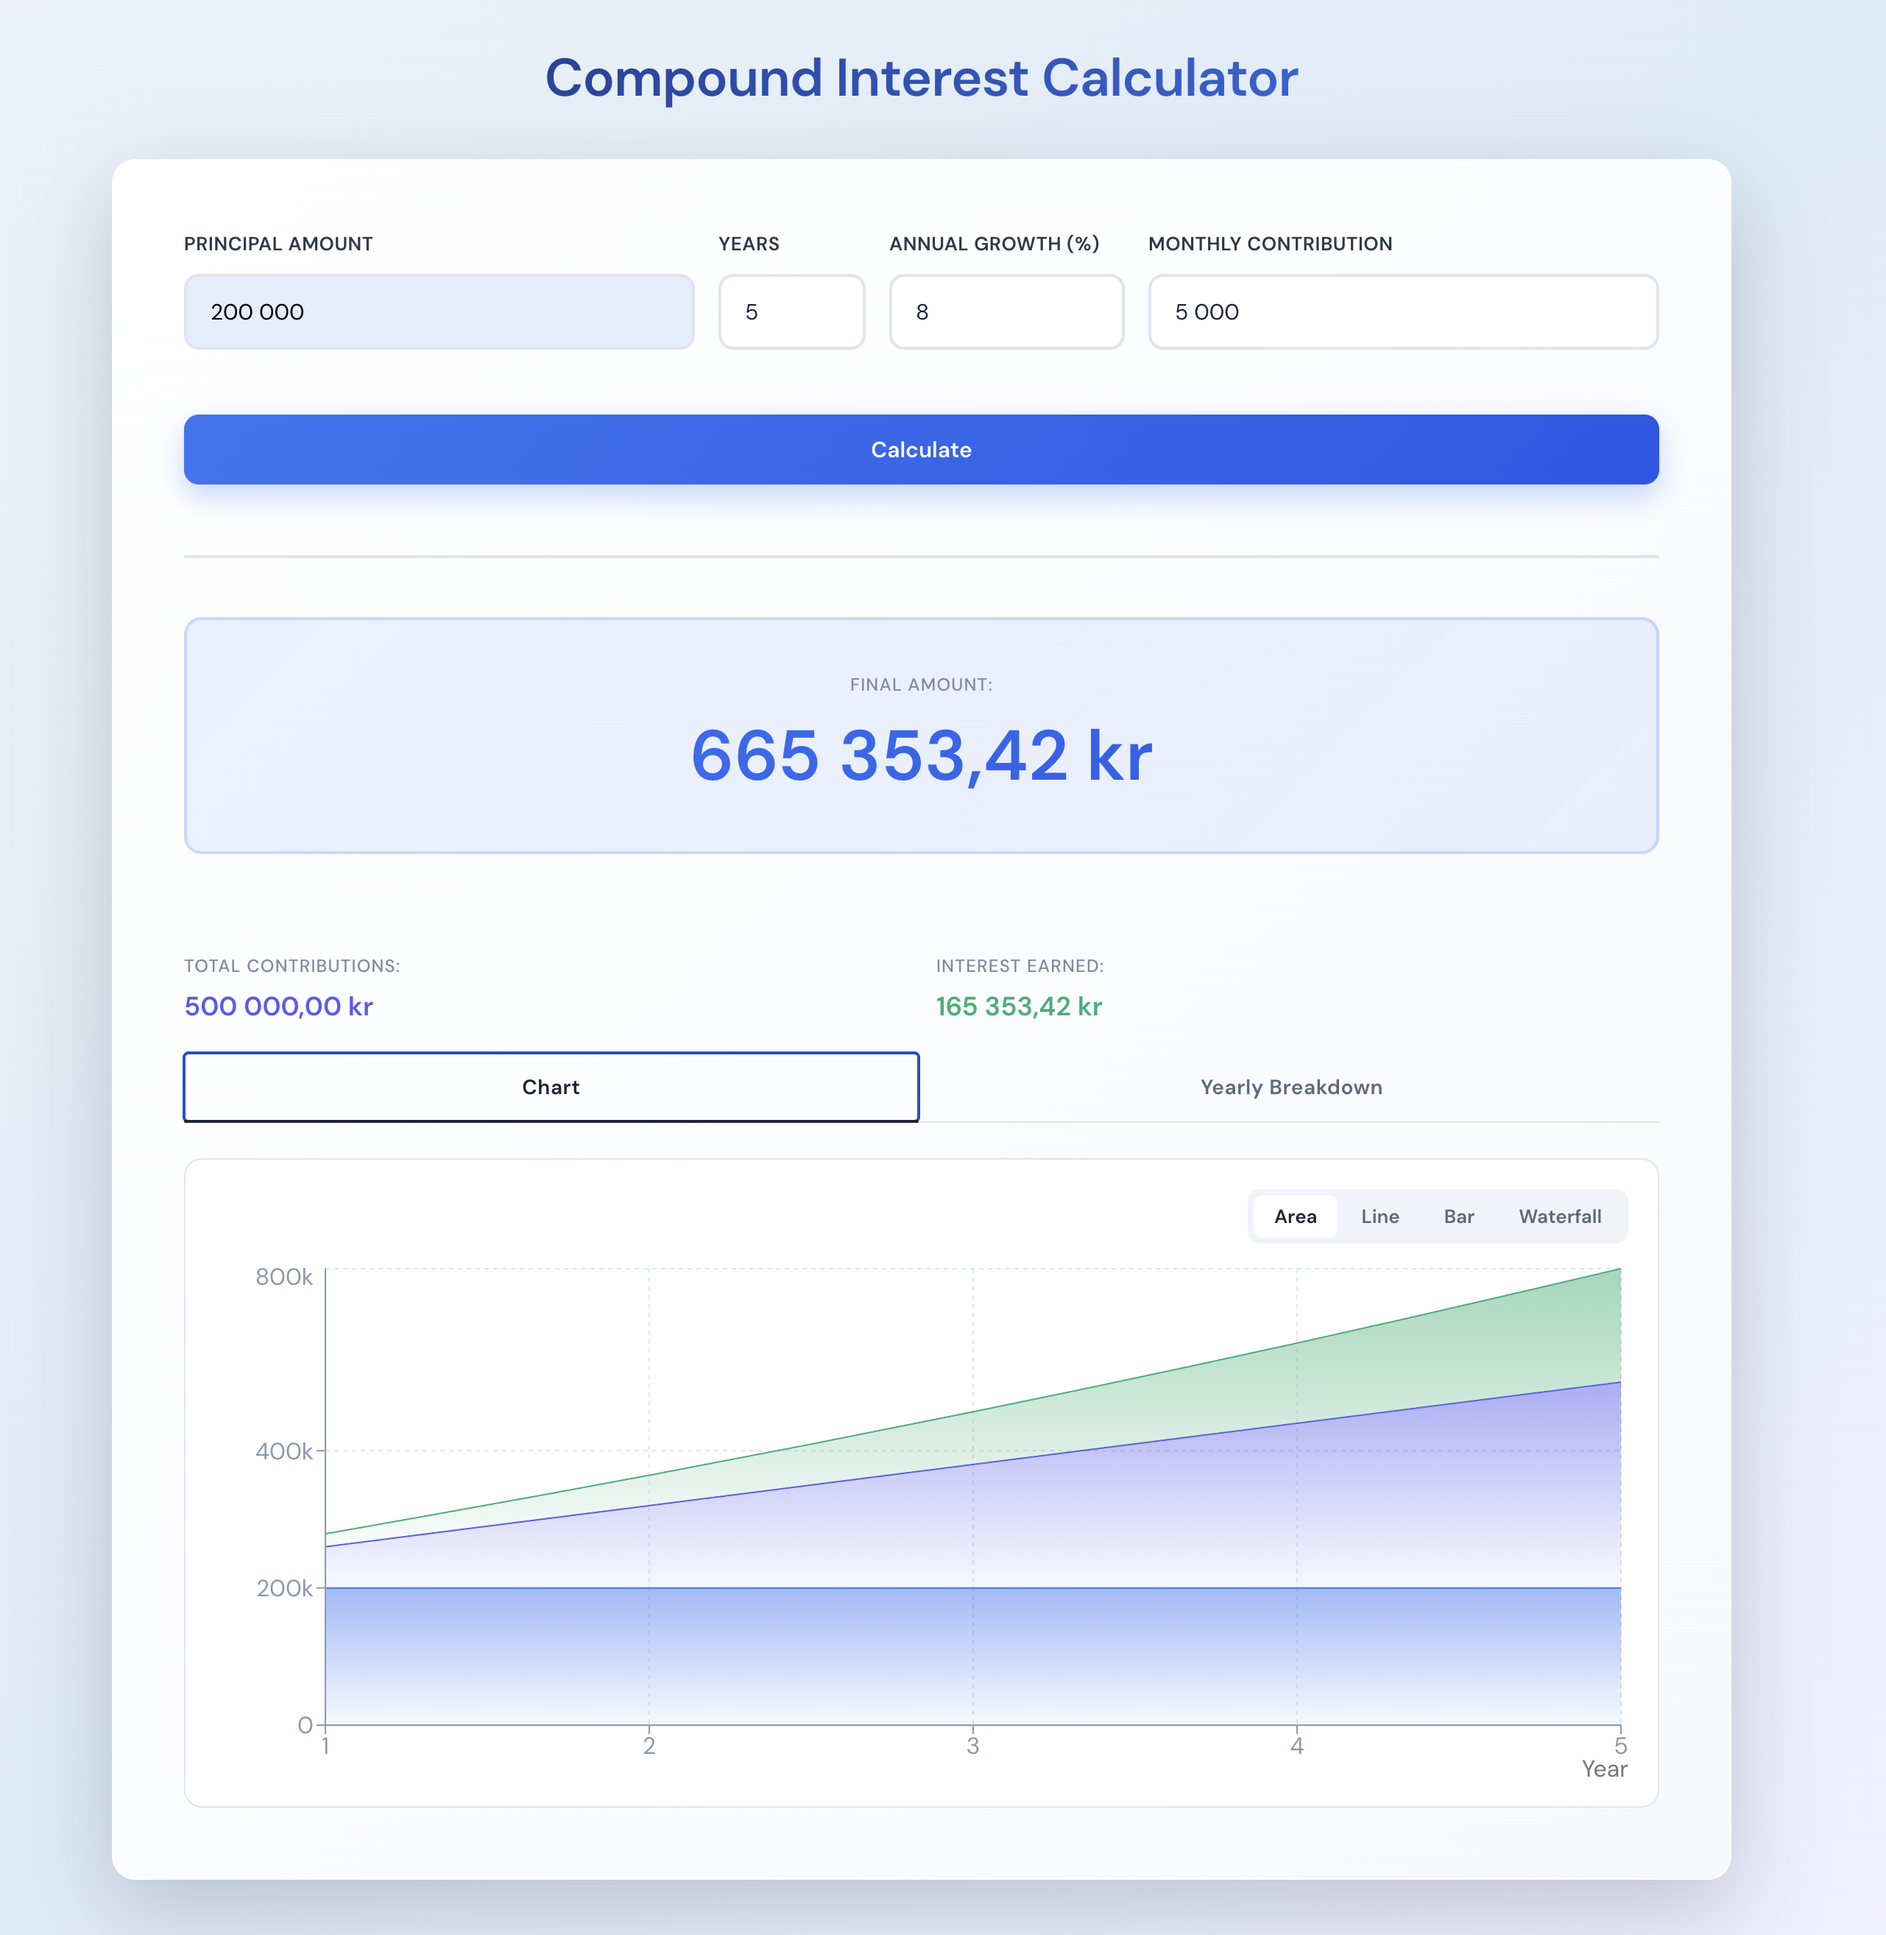
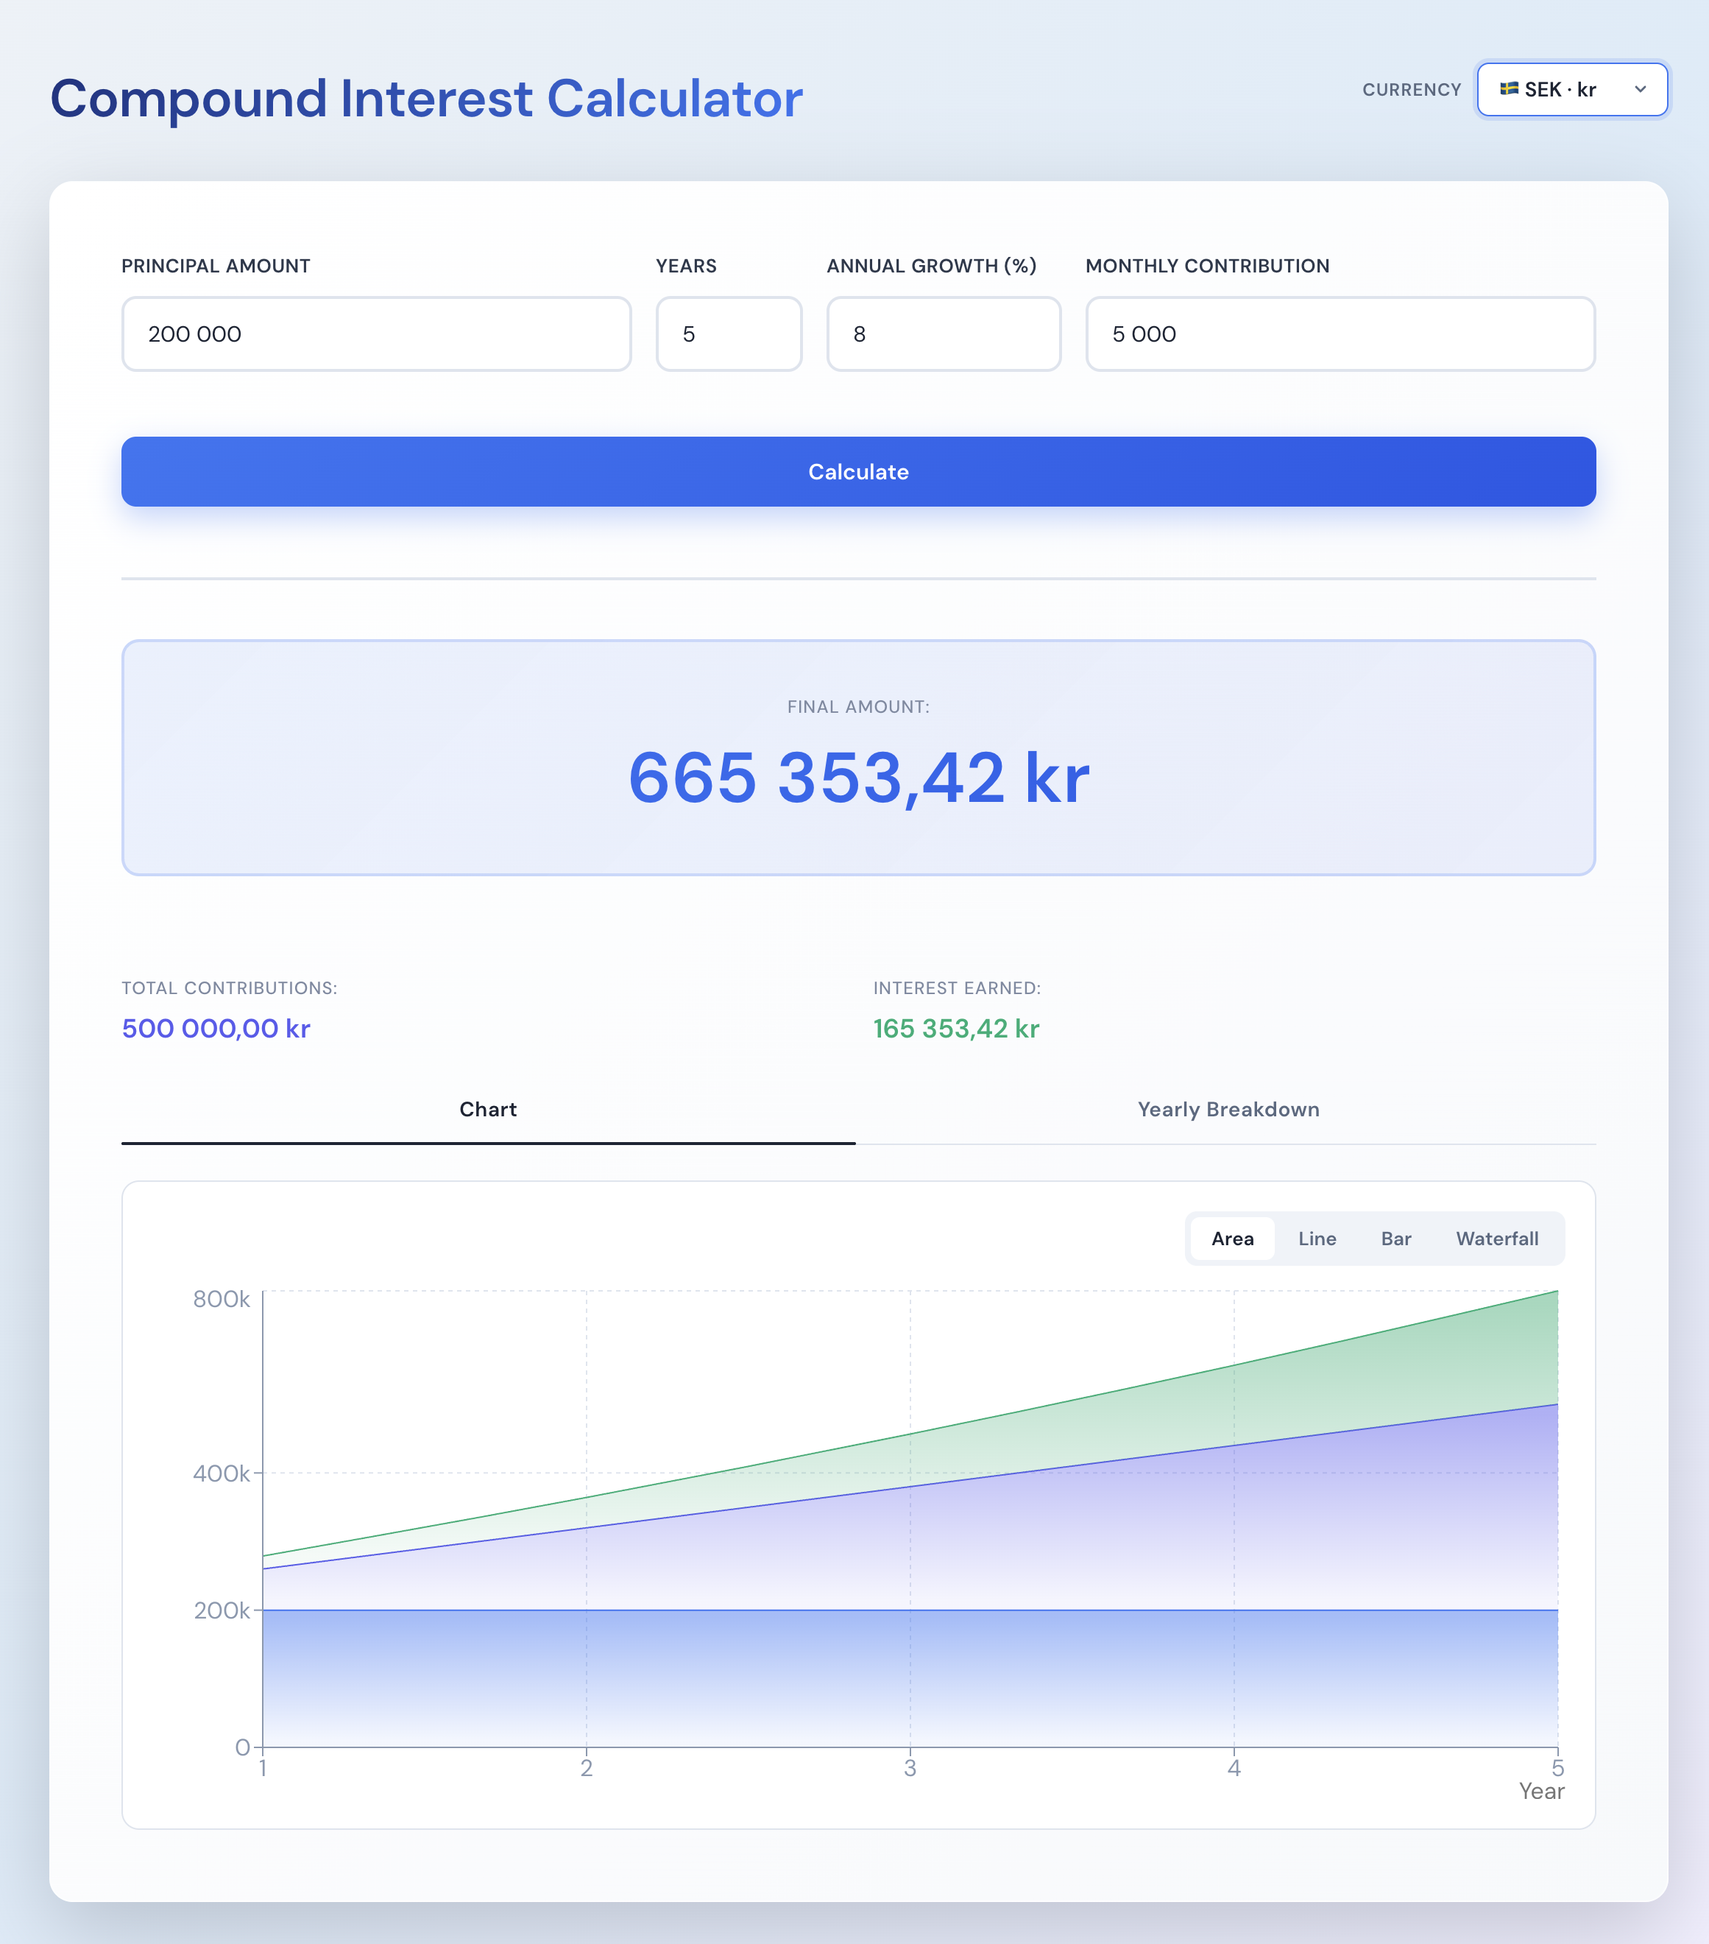
update readme and assets

diff --git a/README.md b/README.md
@@ -16,17 +16,18 @@ Four chart types (Area, Line, Bar, Waterfall) visualize how principal, contribut
 
 End-of-year totals with year-over-year growth highlights between rows.
 
-![Yearly breakdown](assets/images/yearly-breakdown-view.png)
+![Yearly breakdown](assets/images/year-breakdown.png)
 
 ### Monthly breakdown
 
 Each year row expands to reveal the month-by-month total and monthly growth within that year.
 
-![Monthly breakdown](assets/images/month-breakdown-view.png)
+![Monthly breakdown](assets/images/month-breakdown.png)
 
 ## Features
 
 - **Inputs**: Initial principal, time horizon (years), annual growth rate, and optional monthly contribution
+- **Currency selector**: Switch the display currency across the entire app — supports USD, EUR, JPY, GBP, CHF, CAD, AUD, NZD, SEK, NOK, CNY, and INR (each with its own locale-correct number formatting and symbol position)
 - **Final amount card**: Large, prominent display of the projected end value
 - **Summary cards**: Total contributions and total interest earned
 - **Tabbed visualization**: Switch between a chart view and a yearly breakdown list
@@ -73,10 +74,13 @@ src/
 ├── App.tsx                           # Top-level state and layout
 ├── App.css                           # Global styles (card, form, results grid)
 ├── index.css                         # Base styles
+├── types.ts                          # Shared types (e.g. Currency union)
 ├── components/
 │   ├── Form.tsx                      # Inputs and Calculate button
 │   ├── FormField.tsx                 # Label + input wrapper
 │   ├── NumberInput.tsx               # Input with thousands-separator formatting
+│   ├── CurrencySelector.tsx          # Dropdown for switching display currency
+│   ├── CurrencySelector.css
 │   ├── Results.tsx                   # Composes Final Amount, summary, and the tabs
 │   ├── ResultsTabs.tsx               # Tab nav: Chart vs Yearly Breakdown
 │   ├── ResultsTabs.css
@@ -90,17 +94,22 @@ src/
 │       ├── BarChartView.tsx          # Stacked bar chart (cumulative)
 │       ├── WaterfallChartView.tsx    # Year-by-year waterfall bars
 │       └── chartUtils.tsx            # Shared tooltip and axis helpers
+├── constants/
+│   └── currencies.ts                 # Supported currencies + per-currency formatting config
+├── contexts/
+│   └── CurrencyContext.tsx           # Provider/hook for the selected currency
 └── utils/
     ├── calculations.ts               # Compound interest math + monthly/yearly breakdown
-    └── formatting.ts                 # Swedish locale number/currency formatting
+    └── formatting.ts                 # formatCurrency driven by currencies.ts config
 ```
 
 ## Tech Stack
 
-- **React 18** with **TypeScript**
+- **React 19** with **TypeScript**
 - **Vite** for the dev server and build
-- **Recharts** for the stacked area chart
-- Plain CSS (no UI library) with component-scoped stylesheets for Chart and YearlyList
+- **Recharts** for all four chart variants
+- Plain CSS (no UI library) with component-scoped stylesheets
+- React Context for the global currency selection
 
 ## Running Locally
 
@@ -113,4 +122,4 @@ The dev server runs at `http://localhost:5173`.
 
 ## Formatting Notes
 
-Numbers are displayed using the Swedish locale (`sv-SE`), so thousands are separated by spaces and the decimal point is a comma. Currency values are suffixed with `kr`.
+Number formatting follows the **selected currency's locale**. Each currency in `src/constants/currencies.ts` defines its own locale (e.g. `sv-SE` for SEK, `de-CH` for CHF, `en-IN` for INR), the currency symbol, where the symbol sits (prefix or suffix), and how many fractional digits to show (e.g. JPY uses 0). Adding a new currency is a single entry in that file plus a one-line update to the `Currency` union in `src/types.ts`.
